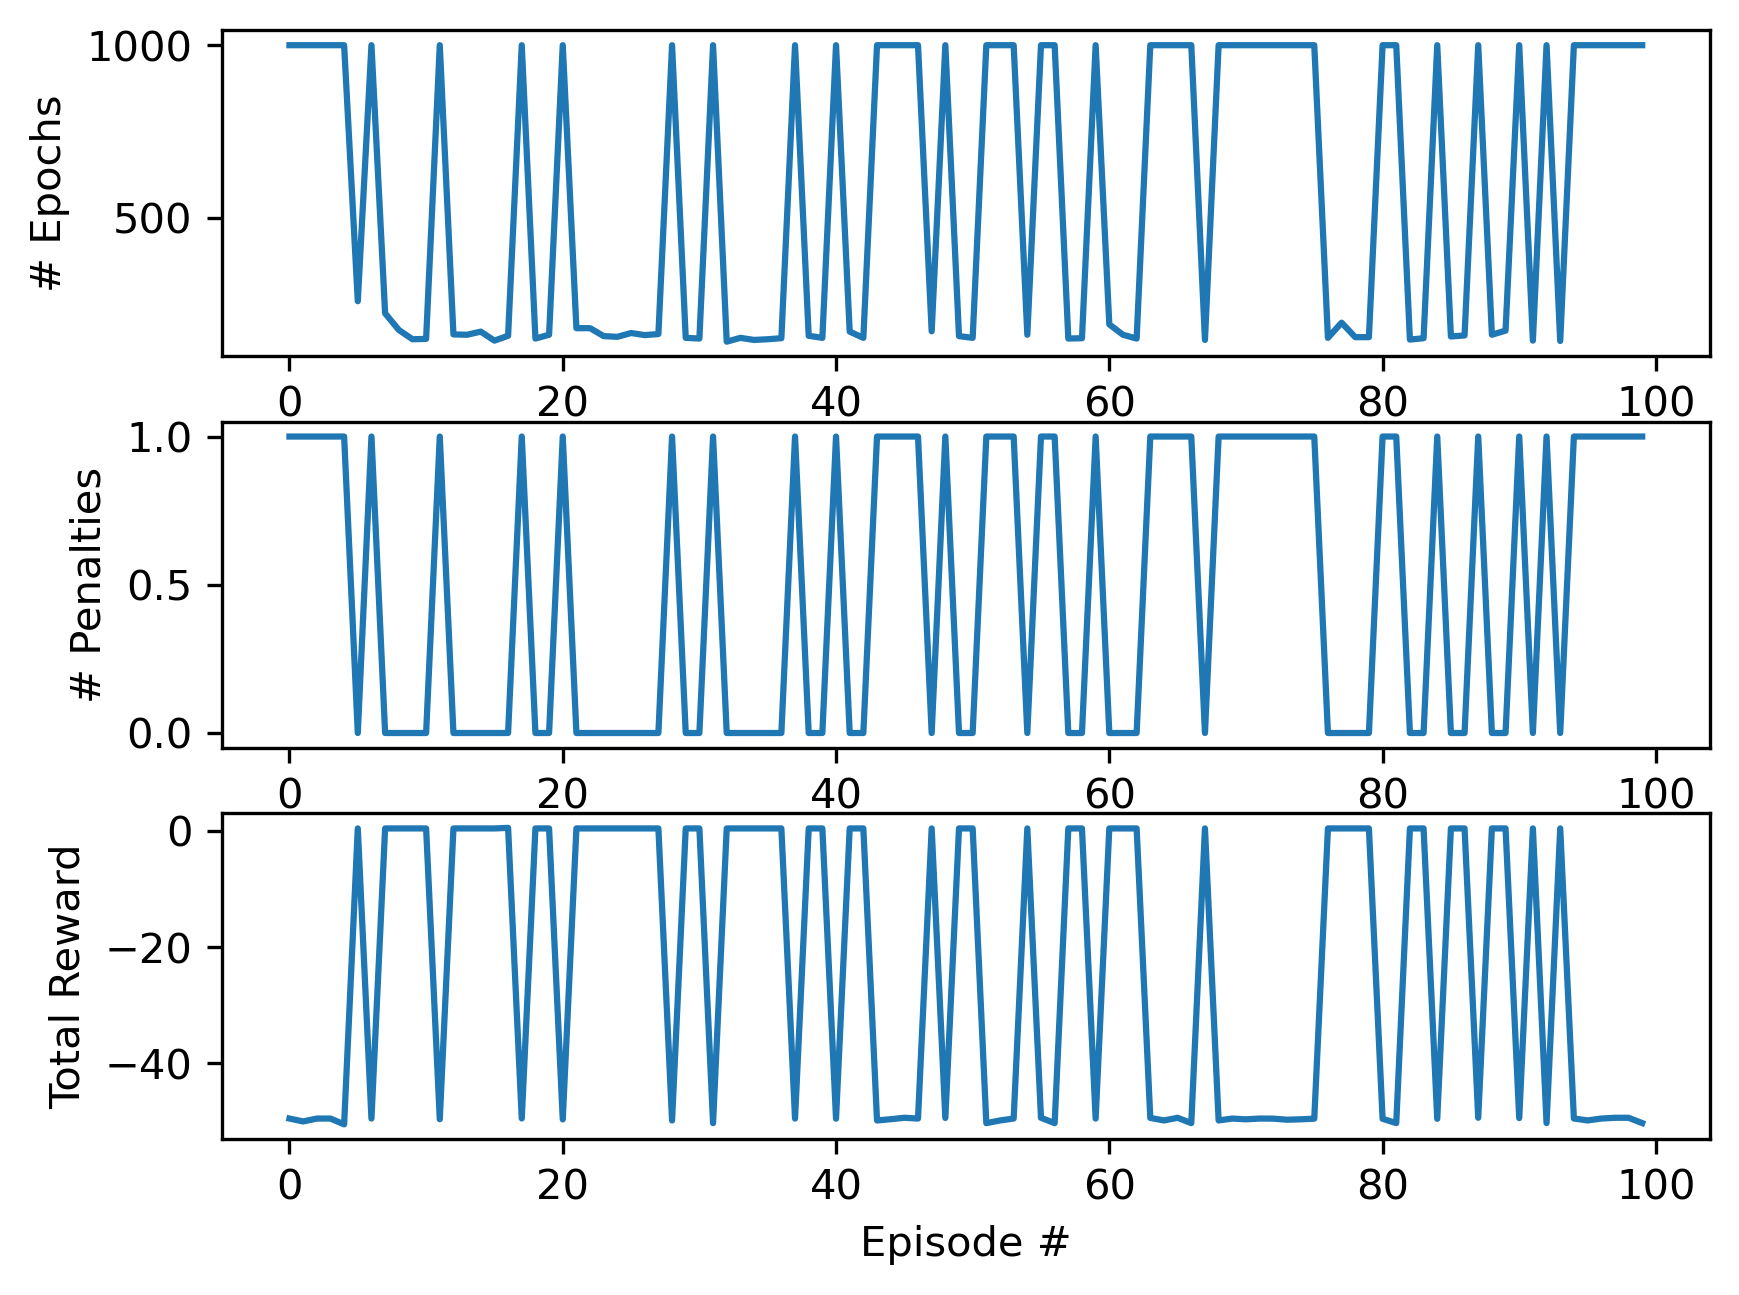
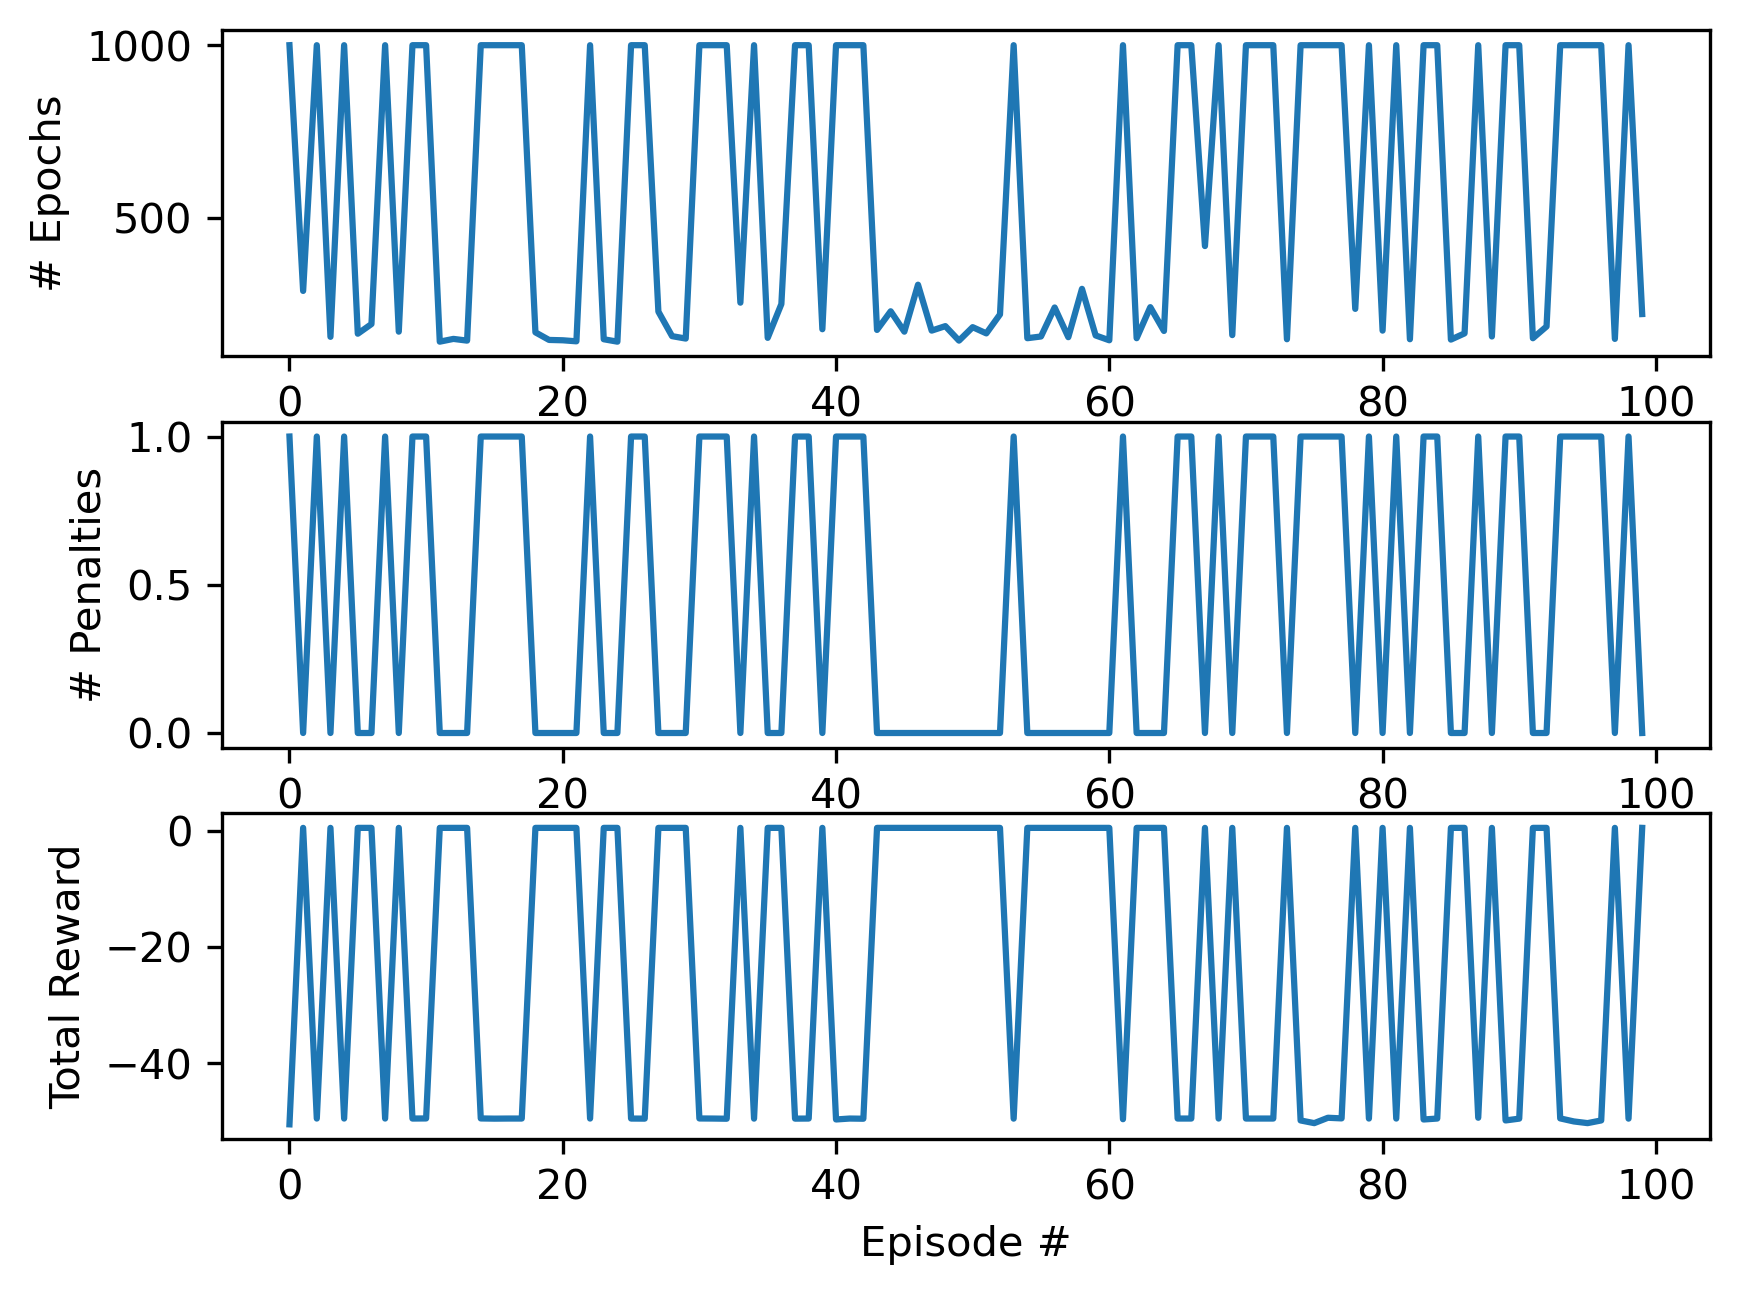
updated stats

diff --git a/sam_sandbox/UAV.py b/sam_sandbox/UAV.py
@@ -79,7 +79,7 @@ class UAV(Env):
             self.canvas[y : y + elem_shape[1], x : x + elem_shape[0]] = elem.icon
             
         #text = 'Rewards: {}, Penalties: {}, Episode #: {}'.format(self.ep_return, self.penalties, self.episode)
-        text = 'Rewards: {:.1f}, Ep: {:.0f}'.format(self.reward, self.episode)
+        text = 'Rewards: {:.1f}, Ep: {:.0f}, Pen={}'.format(self.reward, self.episode, self.penalties)
         info = 'alpha_low: {:.2f}, beta: {:.2f}'.format(self.alpha_low, self.beta)
         font = cv2.FONT_HERSHEY_SIMPLEX
         
@@ -337,26 +337,26 @@ class UAV(Env):
         for a in range(self.nActions):
             
             #numerator
-            exp_num = exp(-float(Q_table[a])/T_k)
+            exp_num = exp(float(Q_table[a])/T_k)
             
             #reset cumSum
             exp_den = 0.0
             
             for i in range(self.nActions):
-                    exp_den += exp(-float(Q_table[i])/T_k)
+                exp_den += exp(float(Q_table[i])/T_k)
                     
             #append probability
-            probs.append(exp_num/( exp_den + eps ))
-            
-        #apply discrete inverse transform technique to generate action
-        #generate CDF
-        for a in range(self.nActions):
-            q_i = sum(probs[0:a+1])
-            #check if uniform random input is less than cumulated probability
-            if U < q_i:
-                return a
-            else:
-                return self.nActions - 1
+            probs.append(exp_num / ( exp_den + eps))
+        return np.argmax(probs)  
+        # #apply discrete inverse transform technique to generate action
+        # #generate CDF
+        # for a in range(self.nActions):
+        #     q_i = sum(probs[0:a+1])
+        #     #check if uniform random input is less than cumulated probability
+        #     if U < q_i:
+        #         return a
+        #     else:
+        #         return self.nActions - 1
      
     def calcDistance(self, x1, x2, y1, y2):
         return sqrt( (x1 - x2)**2 + (y1 - y2)**2 )

diff --git a/sam_sandbox/q_learning_uav.py b/sam_sandbox/q_learning_uav.py
@@ -17,10 +17,10 @@ import matplotlib.pyplot as plt
 alpha = 0.2 #learning rate
 alpha_low = 0.1
 beta = 0.9
-gamma = 0.4 #discount factor
-epsilon = 0.1 #for epsilon-greedy
-lamb = 0.2 #discount factor
-T0 = 100 #initial value of temp param
+gamma = 0.4 # discount factor
+epsilon = 0.05 #for epsilon-greedy
+lamb = 0.9 #discount factor
+T0 = 100.0 #initial value of temp param
 max_iter = 1000
 nEpisodes = int(1e2)
 
@@ -67,9 +67,9 @@ for i in range(1, nEpisodes+1):
         elif env.drone.checkObsInFov() == True:
             action = np.argmax(q_table[state_x, state_y] + \
                                q_table_high[state_high[0], state_high[1], state_high[2], state_high[3]])
-        else:
-            # action = env.genBoltzmann(q_table[state_x, state_y], U, i)
-            action = np.argmax(q_table[state_x, state_y])
+        else: 
+            # action = np.argmax(q_table[state_x, state_y])
+            action = env.genBoltzmann(q_table[state_x, state_y], U, i)
         
         #state transition
         state_dot_grid, reward, state_dot_high, reward_high, done = env.step(action)
